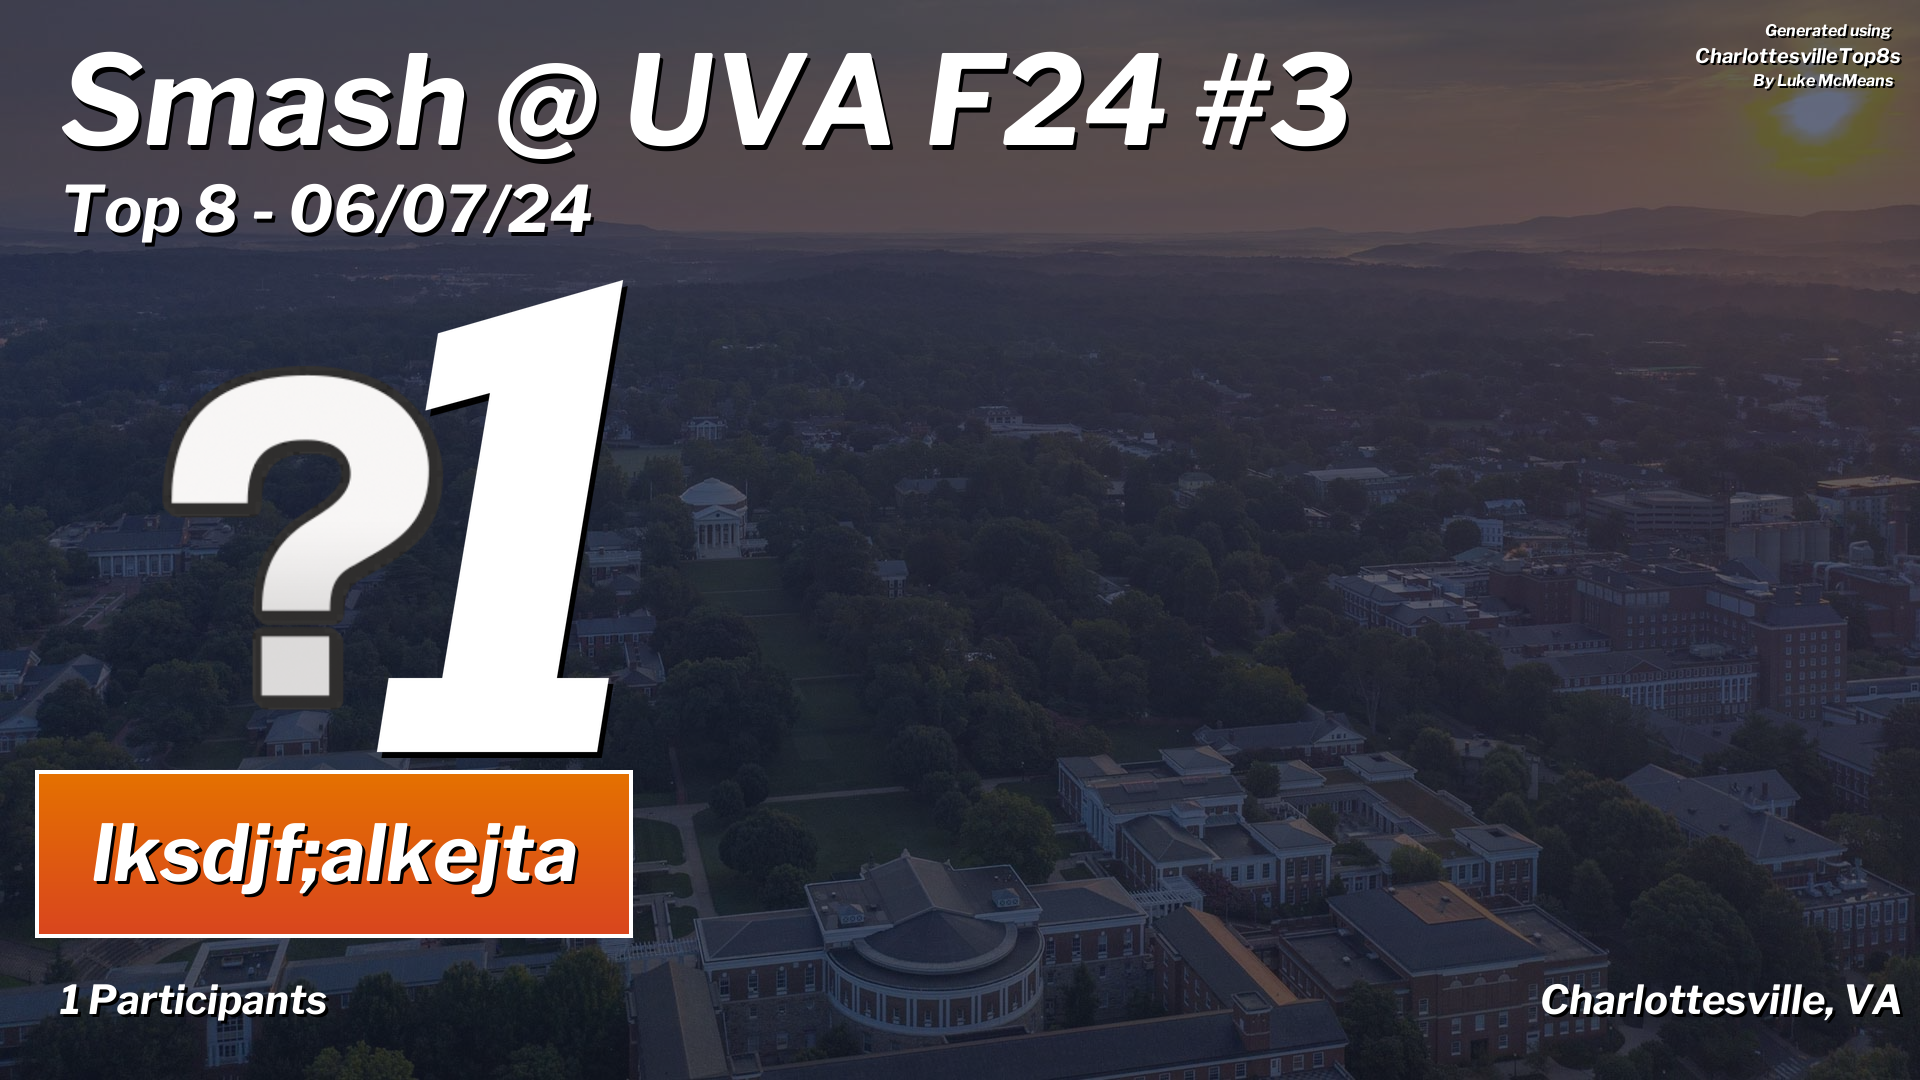
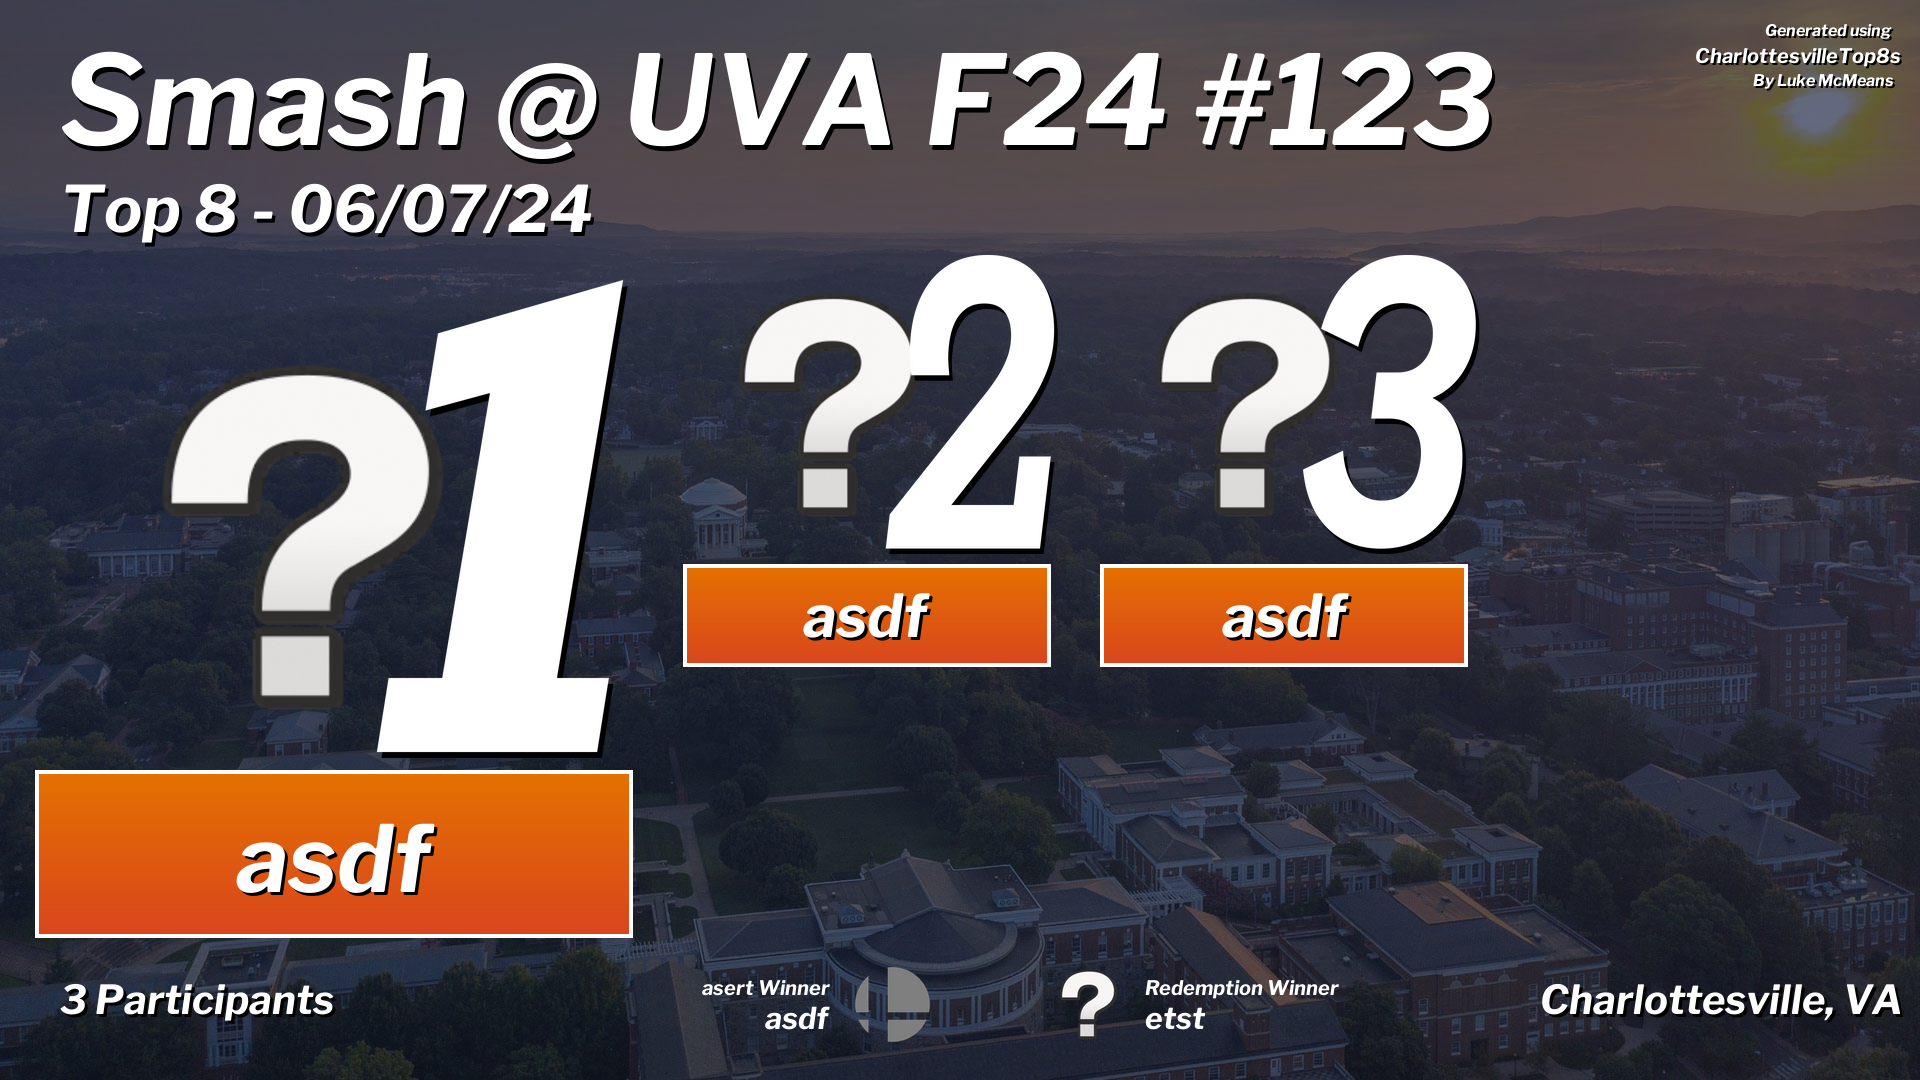
Fixing custom images

diff --git a/templates/mysite/homepage.html b/templates/mysite/homepage.html
@@ -4,7 +4,7 @@
 <link rel="stylesheet" href="{% static 'style.css' %}">
 
 <img style="max-width: 800px; width: 100%; height: auto;" src="{% static 'top8sLogo.png' %}">  
-<form action="{% url 'submit' %}" method="post">
+<form action="{% url 'submit' %}" method="post" enctype="multipart/form-data">
     {% csrf_token %}
     <fieldset>
         <label>What event is this for?</label>
@@ -151,9 +151,8 @@
             </div>
             <div>
                 <label>Custom Character Image (optional)</label><br>
-                <sub>[CURRENTLY UNAVALIABLE]</sub><br>
                 <input type="file" name="player{{ i }}_custom" label="Player{{ i }} Custom Image" id="player{{ i }}_custom"
-                    accept="image/png, image/jpg, image/jpeg" disabled>
+                    accept="image/png, image/jpg, image/jpeg">
             </div>
             <div>
                 <label>Secondary Character (optional)</label><br>
@@ -581,17 +580,17 @@
         const warning = document.getElementById('under_eight')
         if(participants <= 0){
             warning.innerHTML = `
-                    Please enter a value greater than or equal to 1.
+                Please enter a value greater than or equal to 1.
             `;
         }
         else if(participants < 8){
             if(participants === 7){
                 warning.innerHTML = `
-                    [WARNING] You've entered a number less than 8. This means Player 8 will be ignored. Regardless, please add a value to its name, as it is still required (but won't show).
+                    [WARNING] You've entered a number less than 8. This means Player 8 will be ignored, but please add a value to its name as it is still required (but won't show).
                 `;
             } else {
                 warning.innerHTML = `
-                    [WARNING] You've entered a number less than 8. This means Players ${participants+1}-8 will be ignored. Regardless, please add a value to their names, as they are still required (but won't show).
+                    [WARNING] You've entered a number less than 8. This means Players ${participants+1}-8 will be ignored, but please add a value to their names as they are still required (but won't show).
                 `;
             }
         } else {

diff --git a/mysite/views.py b/mysite/views.py
@@ -40,11 +40,11 @@ def submit(request):
         secondary = None
         terChar = request.POST.get(f"player{number}_tertiary")
         tertiary = None
-        customImage = '' #TODO: FIX        request.POST.get(f"player{number}_custom")
-        if customImage != '':
+        if request.POST.get(f"player{number}_custom") != '':
+            customImage = request.FILES[f"player{number}_custom"]
             customFilePath = f"static/images/misc/customs/custom_{index}.png"
             temp = Image.new("RGBA", (1000,1000))
-            custom = Image.open(customImage)
+            custom = Image.open(customImage).convert("RGBA")
             aspect_ratio = min(1000 / custom.width, 1000 / custom.height)
             new_size = (int(custom.width * aspect_ratio), int(custom.height * aspect_ratio))
             custom = custom.resize(new_size, Image.Resampling.LANCZOS)
@@ -132,7 +132,8 @@ def constructSmashAtUVA(top_players, event):
     draw.text((60,170), top8text, font=font, fill=text_color)
 
     font = ImageFont.truetype(font_path, 40)
-    participantsText = f'{event["participants"]} Participants'
+    participants = int(event["participants"])
+    participantsText = f'{participants} Participant{"s" if participants != 1 else ""}'
     draw.text((63,978), participantsText, font=font, fill=shadow_color)
     draw.text((60,975), participantsText, font=font, fill=text_color)
     locationText = 'Charlottesville, VA'
@@ -210,7 +211,7 @@ def addPlayers(top_players, event, graphic, draw, font_path):
     for index in range(7, -1, -1):
         if index+1 <= int(event["participants"]):
             coord = rectCoords[index]
-            json_file_path = 'static/newchar_coords.json'
+            json_file_path = 'static/char_coords.json'
             with open(json_file_path, 'r') as file:
                 charCoords = json.load(file)
 
@@ -223,7 +224,7 @@ def addPlayers(top_players, event, graphic, draw, font_path):
                 charName = charName[:stop_index]
 
             if charName not in charCoords:
-                charData = charCoords["DEFAULT"]
+                charData = charCoords["Custom"]
             else:
                 charData = charCoords[charName]
             
